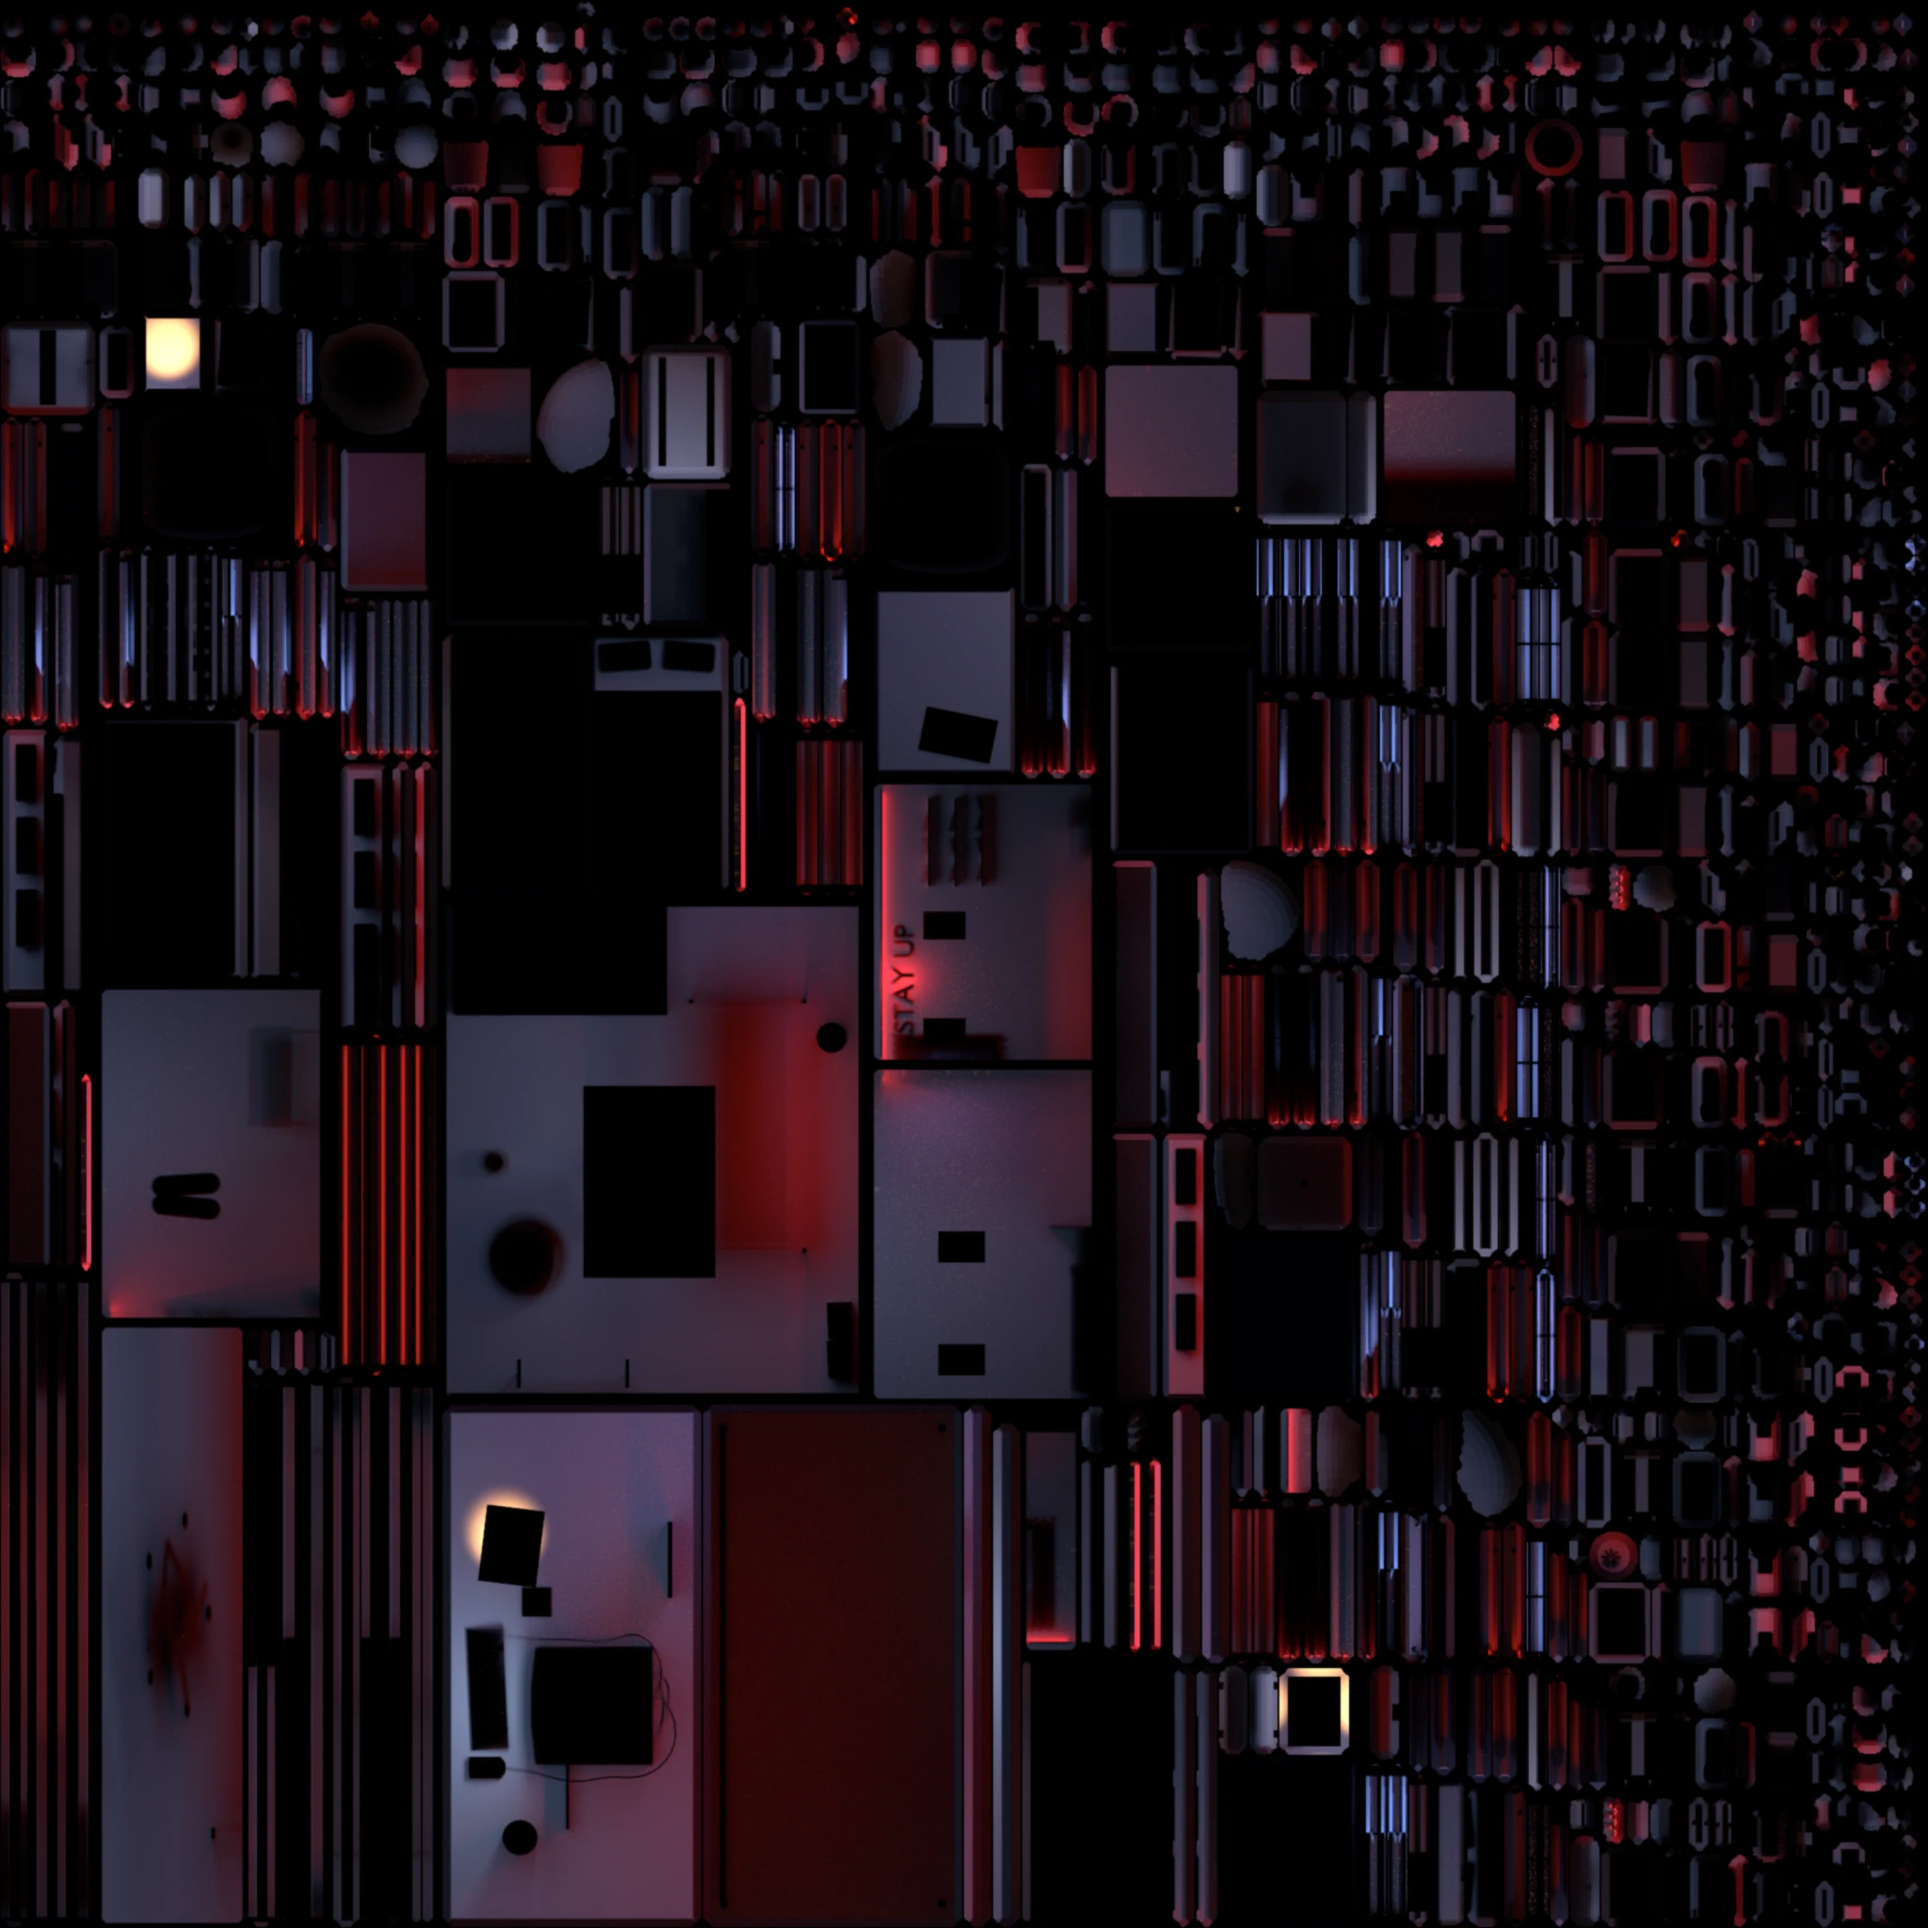
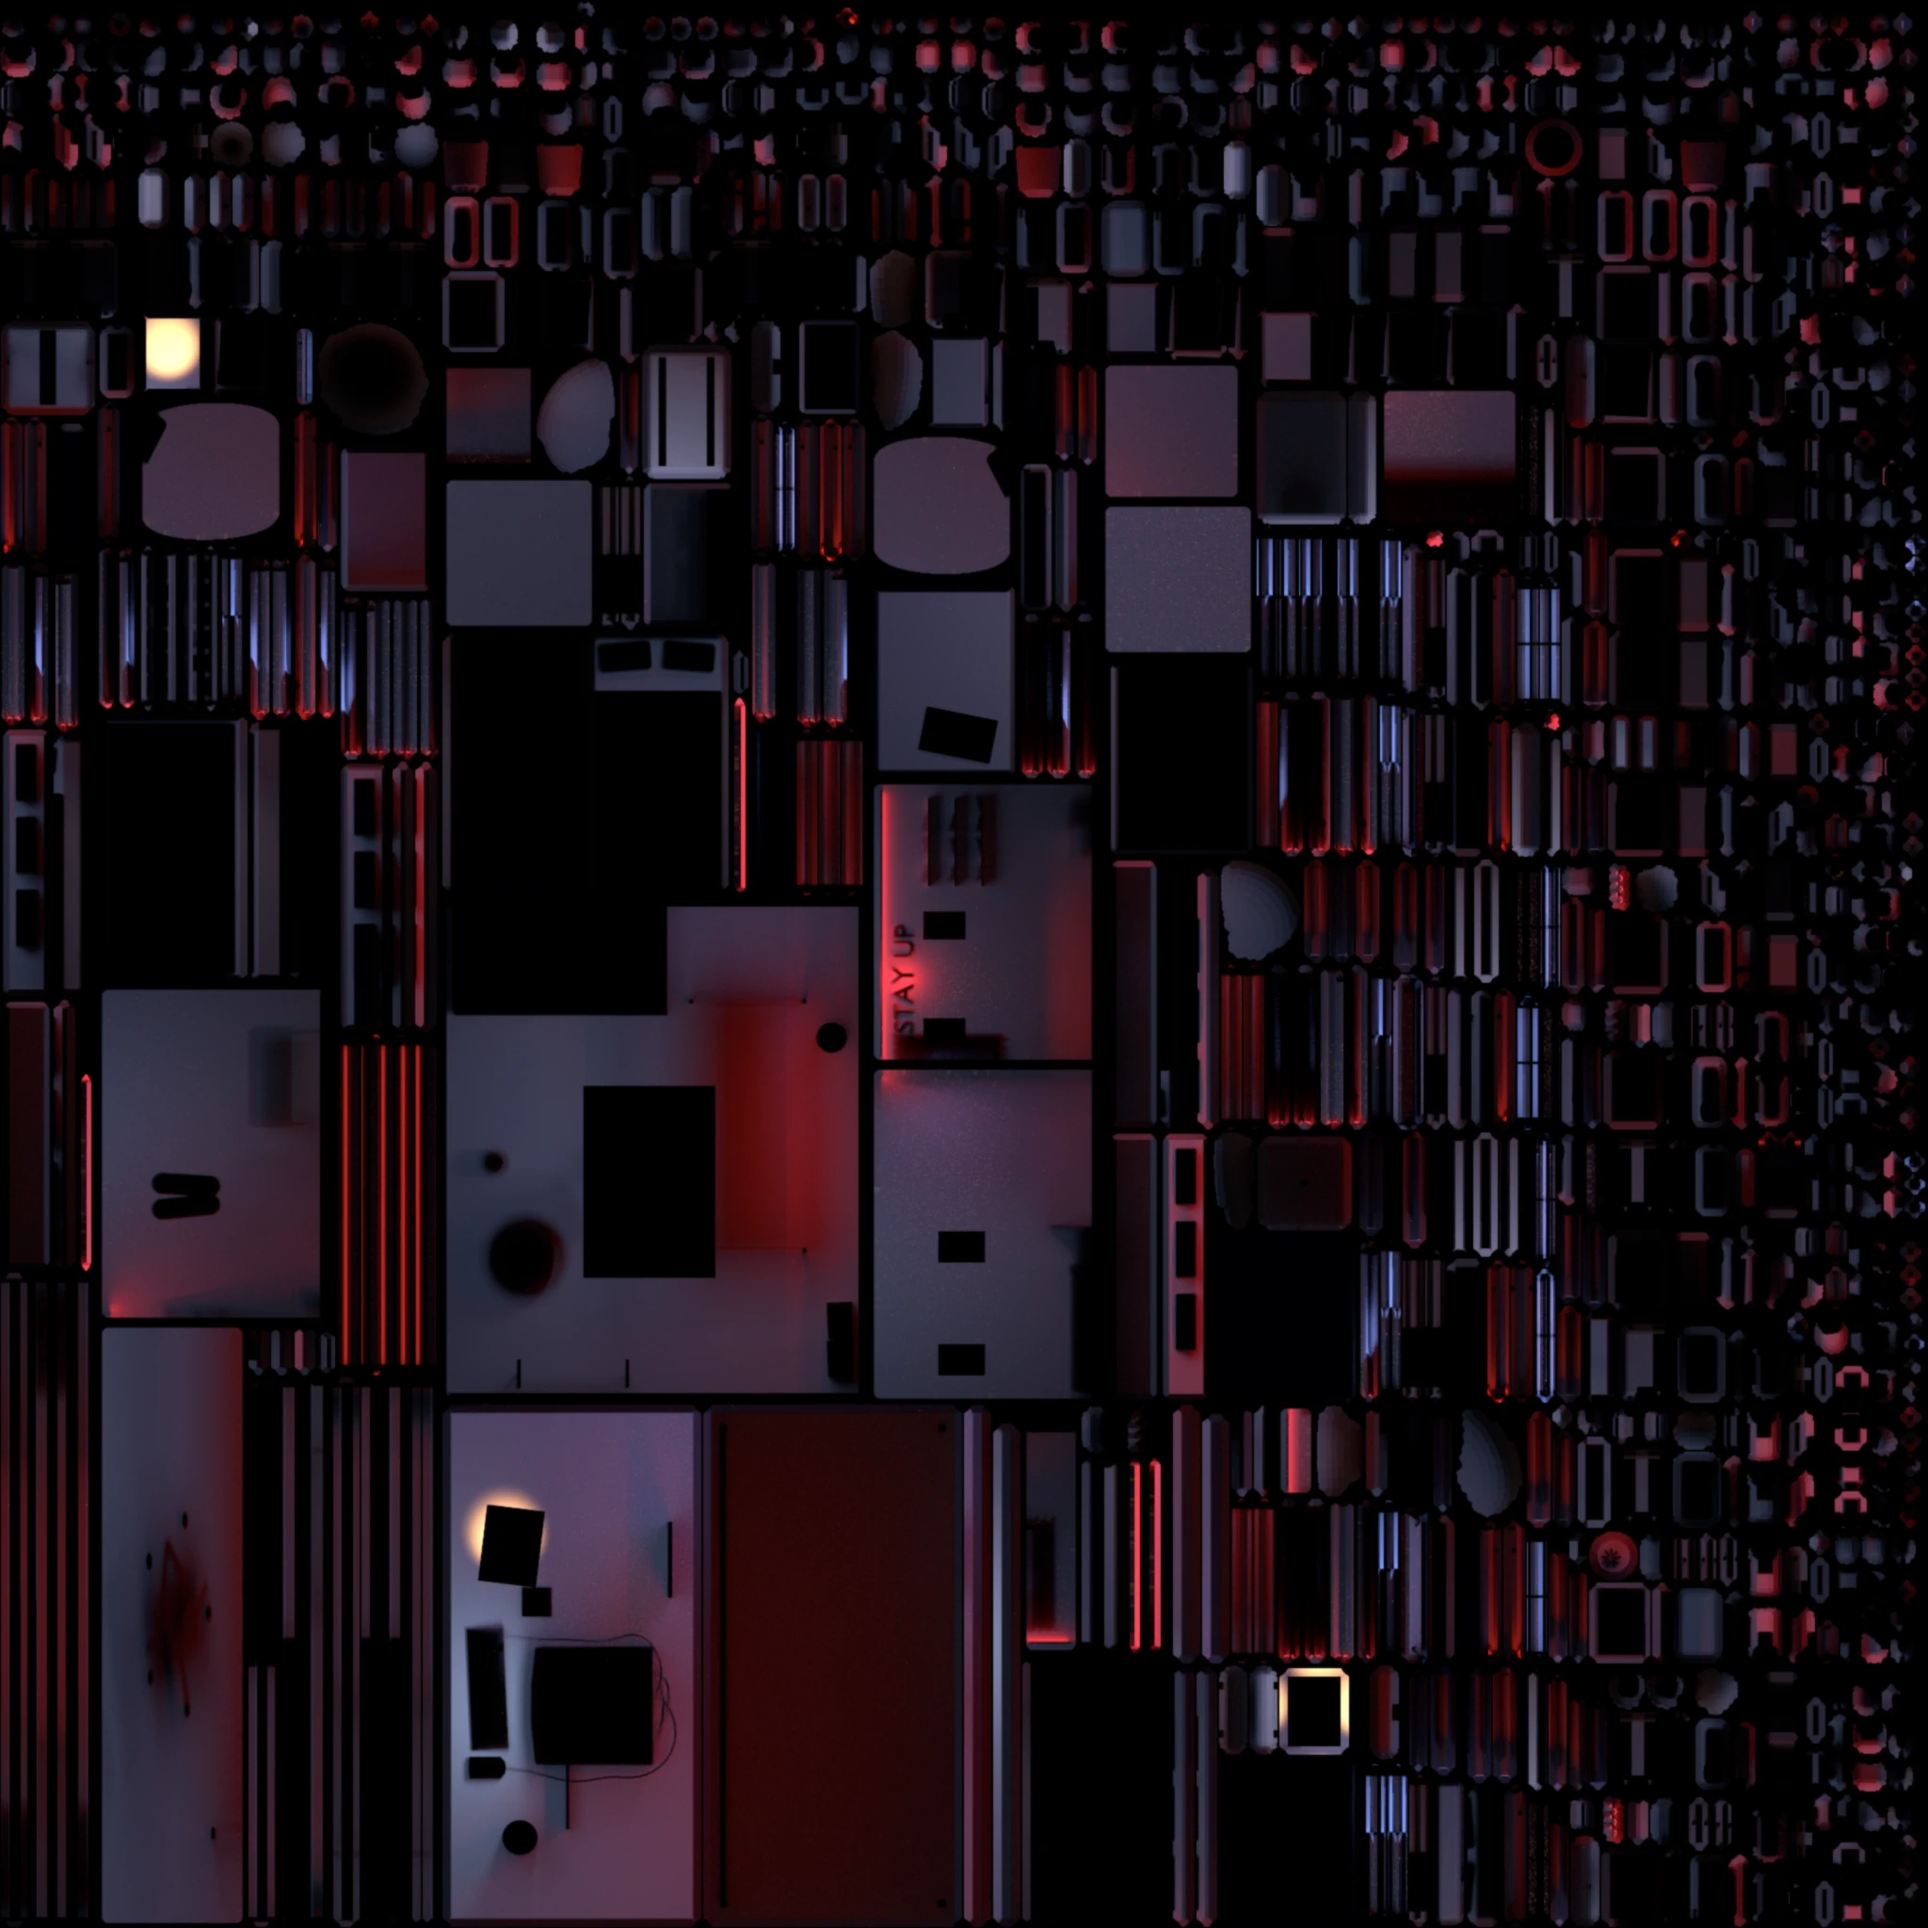
Room: final bake (posters and decks fixed)

diff --git a/src/Application/World/BakedRoom.ts b/src/Application/World/BakedRoom.ts
@@ -15,7 +15,7 @@ import Resources from '../Utils/Resources';
  */
 
 // light map intensities written by the bake (room.json)
-const LIGHT_SCALE = { night: 10.7951, day: 19.2406 };
+const LIGHT_SCALE = { night: 10.7121, day: 19.1283 };
 
 type Time = 'day' | 'sunset' | 'night';
 
